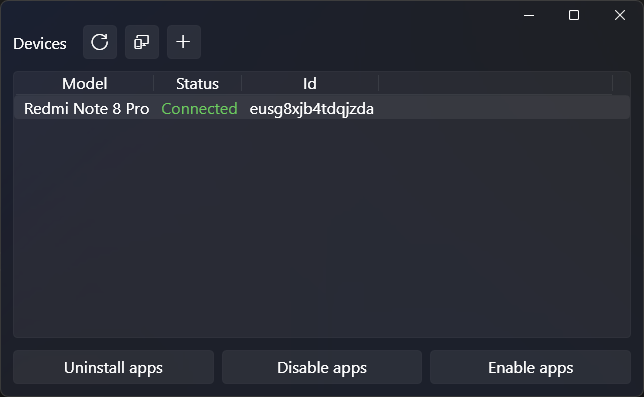
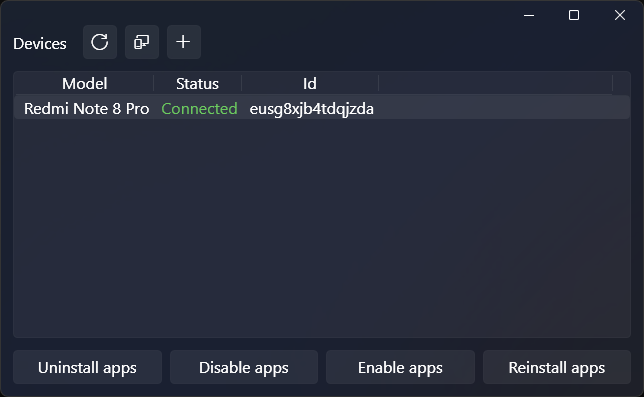
feat: add option to reinstall apps

Changed region(s): [[0.3106, 0.9068, 0.6832, 0.9673], [0.7453, 0.9068, 0.9317, 0.9673], [0.0621, 0.9068, 0.2484, 0.9673]]

diff --git a/src/GUI/DevicesWindow/DevicesWindow.xaml b/src/GUI/DevicesWindow/DevicesWindow.xaml
@@ -94,6 +94,8 @@
           <ColumnDefinition Width="*" />
           <ColumnDefinition Width="8" />
           <ColumnDefinition Width="*" />
+          <ColumnDefinition Width="8" />
+          <ColumnDefinition Width="*" />
         </Grid.ColumnDefinitions>
         <Button Name="UninstallButton"
           Grid.Column="0"
@@ -103,6 +105,9 @@
           IsEnabled="False" />
         <Button Name="EnableButton"
           Grid.Column="4"
+          IsEnabled="False" />
+        <Button Name="ReinstallButton"
+          Grid.Column="6"
           IsEnabled="False" />
       </Grid>
     </Grid>

diff --git a/README.md b/README.md
@@ -12,7 +12,7 @@
 
 ## Features
 
-- Options to: uninstall, disable and enable apps
+- Options to: uninstall, disable, enable and reinstall apps
 - Curated bloatware list from vendors like Google, Samsung, Xiaomi, and others
 - WPF GUI in the WinUI 3 style
 - Localized interface, app names and tooltips
